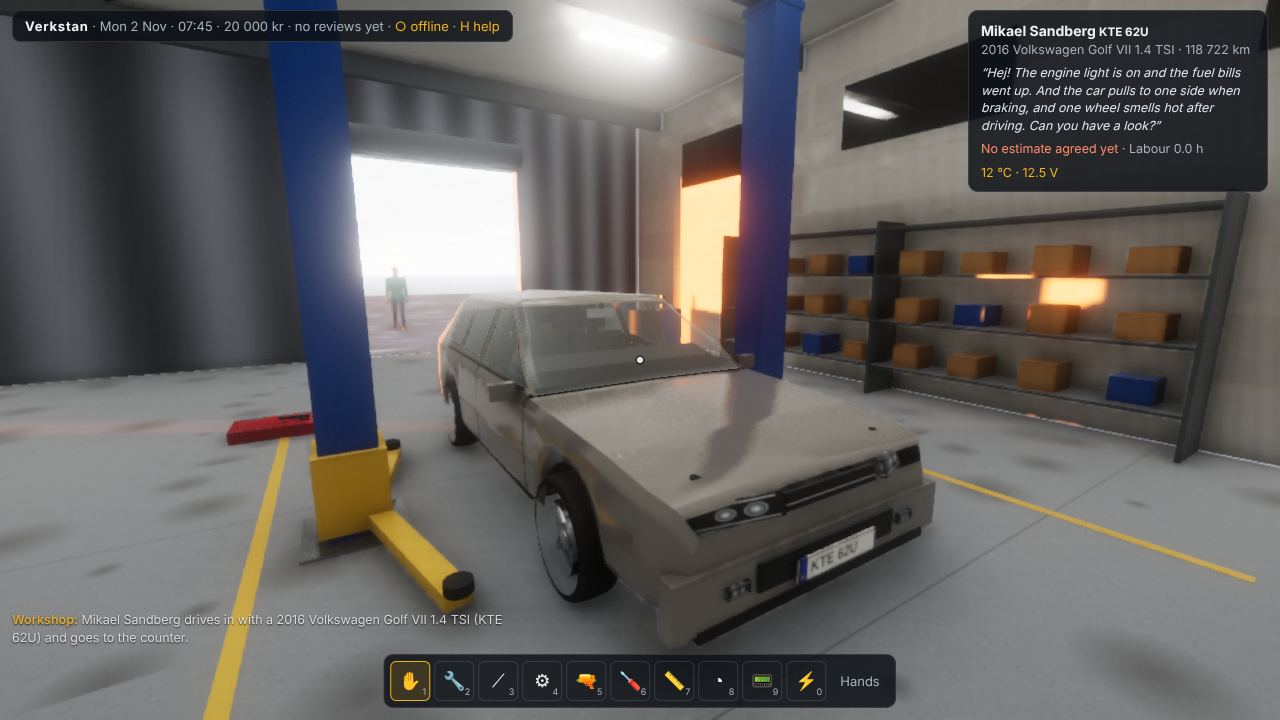
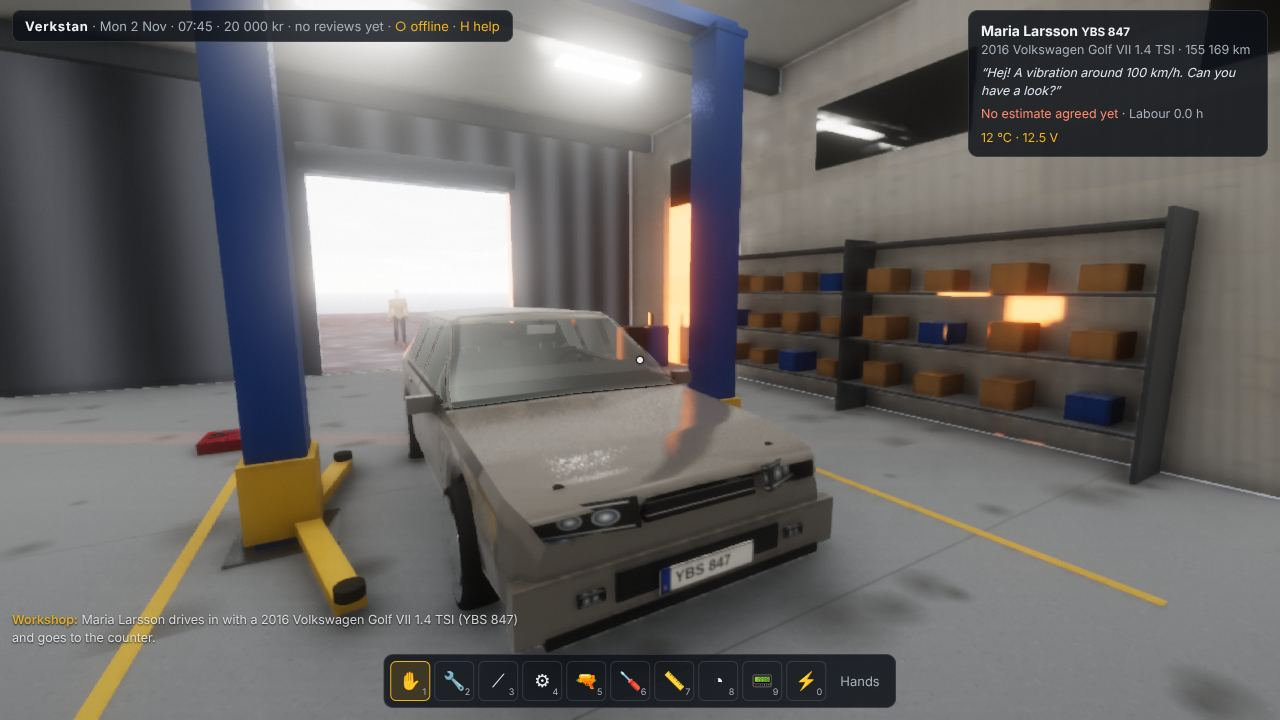
Verkstan: the engine bay after a photo of a 240's; reference photos credited
Body-coloured inner wings, strut towers and bulkhead; the cam cover's ribs, cast intake runners,
plenum, throttle body and the big ribbed intake hose; exhaust runners; heater hoses and the
wiring loom. The HT leads run under the bonnet; the Golf's headlamps wrap into the wings.
docs/references.md lists the Wikimedia Commons photographs each detail was taken from.

Claude-Session: https://claude.ai/code/session_014Z2wUYDbFAVEkqk6v8KxKa

diff --git a/games/verkstad/src/car/assembly.js b/games/verkstad/src/car/assembly.js
@@ -286,6 +286,7 @@ function engineBay(A, lay, volvo) {
   const ax = (a, b) => (lon ? [0, a, b] : [b, a, 0]);     // place along the crank axis
   const dim = (w, h, l) => (lon ? [w, h, l] : [l, h, w]);
   const BB = (w, h, l, p, m) => ({ t: 'box', s: dim(w, h, l), p, m });
+  const EP = (across, up, along) => (lon ? [across, up, along] : [along, up, across]);   // engine-local: across the crank, up, along it
   A.add({ id: 'engine', name: `${e.code} engine (${(Math.PI / 4 * e.bore ** 2 * e.stroke * e.cyl * 1000).toFixed(1)} l)`, kind: 'engine', sys: 'engine', fixed: true, mass: volvo ? 150 : 104,
     pos: [0, EY, EZ], rot: volvo ? [0, 0, -0.2] : [0, 0, 0],
     cond: { oil: e.oil.capacity, oilAge: 12000, oilGrade: e.oil.grade, sludge: 0, comp: [1, 1, 1, 1], blowby: 0, coolant: 1, headGasket: true, timing: true },
@@ -296,7 +297,31 @@ function engineBay(A, lay, volvo) {
       BB(0.28, 0.12, len - 0.06, [0, -0.22, 0], 'alu'),               // sump
       BB(0.24, 0.3, 0.04, ax(0.02, len / 2 + 0.02), 'blackPlastic'),    // timing belt cover
       { t: 'cyl', rad: 0.075, len: 0.03, p: ax(-0.1, len / 2 + 0.05), ax: lon ? 'z' : 'x', m: 'castIron', seg: 28 },   // crank pulley
+      // the cam cover's ribs, the intake manifold's four cast runners to the plenum and throttle body,
+      // the exhaust runners on the other side (after a photo of a 240's engine bay, docs/references.md)
+      ...[-2, -1, 0, 1, 2].map((k) => BB(0.012, 0.018, len - 0.14, [...EP(k * 0.035, 0.355, 0)], volvo ? 'camCoverVolvo' : 'blackPlastic')),
+      ...[0, 1, 2, 3].flatMap((i) => { const q = (i - 1.5) * cylPitch; return [
+        { t: 'tube', pts: [EP(0.11, 0.22, q), EP(0.24, 0.24, q), EP(0.31, 0.12, q * 0.85)], rad: 0.022, m: 'alu' },
+        { t: 'tube', pts: [EP(-0.12, 0.17, q), EP(-0.2, 0.08, q * 0.8), EP(-0.2, -0.08, q * 0.3), EP(-0.18, -0.2, 0)], rad: 0.019, m: 'exhaustHot' },
+      ]; }),
+      BB(0.09, 0.1, len - 0.04, EP(0.33, 0.08, 0), 'alu'),
+      { t: 'cyl', rad: 0.04, len: 0.07, p: EP(0.33, 0.1, len / 2 + 0.01), ax: lon ? 'z' : 'x', m: 'alu', seg: 20 },
+      { t: 'tube', pts: [EP(0.33, 0.1, len / 2 + 0.05), EP(0.36, 0.16, len / 2 + 0.2), EP(0.42, 0.2, len / 2 + 0.36)], rad: 0.042, m: 'rubber' },
+      { t: 'tube', pts: [EP(-0.05, 0.25, -len / 2 - 0.02), EP(0.1, 0.3, -len / 2 - 0.12), EP(0.2, 0.25, -len / 2 - 0.25)], rad: 0.009, m: 'hose' },
+      { t: 'tube', pts: [EP(0.15, 0.33, -len / 2 + 0.05), EP(0.2, 0.36, 0), EP(0.17, 0.33, len / 2 - 0.05)], rad: 0.011, m: 'wire' },
     ] });
+  // the engine bay's own panels, in the body's colour: the inner wings, the strut towers, the bulkhead
+  const hwB = s.dims.width / 2 - 0.13, zb0 = lay.fire + 0.05, zb1 = lay.radZ - 0.08, yTop = lay.hoodY - 0.08;
+  A.add({ id: 'apron', name: 'Inner wings and strut towers', kind: 'apron', sys: 'body', fixed: true, pos: [0, 0, 0], g: [
+    ...[1, -1].flatMap((sx) => [
+      B(0.02, yTop - 0.35, zb1 - zb0, [sx * hwB, (yTop + 0.35) / 2, (zb0 + zb1) / 2], 'paint'),
+      C(0.1, 0.18, [sx * (s.dims.trackF / 2 - 0.2), yTop - 0.1, s.dims.wheelbase / 2 - 0.02], 'y', 'paint', { r2: 0.085, seg: 24 }),
+      ...[0, 1, 2].map((i) => C(0.008, 0.012, [sx * (s.dims.trackF / 2 - 0.2) + Math.cos(i * 2.1) * 0.06, yTop + 0.0, s.dims.wheelbase / 2 - 0.02 + Math.sin(i * 2.1) * 0.06], 'y', 'steel', { seg: 6 })),
+      C(0.025, 0.03, [sx * (s.dims.trackF / 2 - 0.2), yTop + 0.005, s.dims.wheelbase / 2 - 0.02], 'y', 'rubber'),
+    ]),
+    B(s.dims.width - 0.3, yTop - 0.35, 0.02, [0, (yTop + 0.35) / 2, zb0 - 0.03], 'paint'),
+    B(s.dims.width - 0.3, 0.06, 0.12, [0, yTop - 0.02, zb0 - 0.02], 'blackPlastic'),          // the scuttle panel under the wipers
+  ] });
   // the oil: filler cap, dipstick, drain plug, filter
   A.add({ id: 'oilcap', name: 'Oil filler cap', kind: 'oilcap', sys: 'oil', mass: 0.05, price: 120, clip: true, need: ['hood'], pos: [0.03, EY + 0.36, EZ + (lon ? 0.12 : 0)], g: [C(0.03, 0.025, [0, 0, 0], 'y', volvo ? 'blackPlastic' : 'yellowCap', { seg: 20 })] });
   A.add({ id: 'dipstick', name: 'Oil dipstick', kind: 'dipstick', sys: 'oil', mass: 0.05, price: 140, clip: true, need: ['hood'], pos: lon ? [0.17, EY + 0.25, EZ - 0.05] : [-0.05, EY + 0.25, EZ + 0.17], info: 'Wipe, push it fully home, pull it out and read where the oil reaches between MIN and MAX', g: [T([[0, 0, 0], [0, -0.45, 0]], 0.003, 'steel'), TOR(0.018, 0.004, [0, 0.02, 0], 'z', 'yellowCap')] });
@@ -314,8 +339,8 @@ function engineBay(A, lay, volvo) {
       blockers: [volvo ? 'lead' + i : 'coil' + i],
       fasteners: [{ id: 'thread', name: 'spark plug', size: e.plug.socket, torque: e.plug.torque, len: 6, stiffness: 1.2, pos: [0, 0, 0], axis: [0, 1, 0] }],
       cond: { gap: e.plug.gap, wear: 0.2, fouled: false, cracked: false, spec: e.plug.gap }, g: [C(0.008, 0.06, [0, 0.02, 0], 'y', 'ceramic'), C(0.01, 0.015, [0, -0.012, 0], 'y', 'steel', { seg: 6 })] });
-    if (volvo) A.add({ id: 'lead' + i, name: `HT lead, cylinder ${i}`, kind: 'lead', sys: 'ignition', cyl: i, mass: 0.05, price: 95, clip: true, need: ['hood'], pos: [plugPos[0], plugPos[1] + 0.03, plugPos[2]],
-      cond: { ok: true, resistance: 5.5 }, g: [T([[0, 0, 0], [0.08, 0.05, 0], [0.18, 0.06, (0.2 - p) * 0.6], [0.24, 0.08, 0.22 - p]], 0.0045, 'leadRed')] });
+    if (volvo) A.add({ id: 'lead' + i, name: `HT lead, cylinder ${i}`, kind: 'lead', sys: 'ignition', cyl: i, mass: 0.05, price: 95, clip: true, need: ['hood'], pos: [plugPos[0], plugPos[1] + 0.01, plugPos[2]],
+      cond: { ok: true, resistance: 5.5 }, g: [T([[0, 0, 0], [0.08, 0.02, 0], [0.18, 0.015, (0.2 - p) * 0.6], [0.24, 0.0, 0.22 - p]], 0.0045, 'leadRed')] });
     else A.add({ id: 'coil' + i, name: `Ignition coil, cylinder ${i}`, kind: 'coil', sys: 'ignition', cyl: i, mass: 0.25, price: 590, partNo: '04E 905 110', clip: true, need: ['hood'], pos: [plugPos[0], plugPos[1] + 0.04, plugPos[2]],
       cond: { ok: true }, g: [C(0.012, 0.1, [0, -0.02, 0], 'y', 'blackPlastic'), B(0.04, 0.04, 0.05, [0, 0.04, 0], 'blackPlastic')] });
   }

diff --git a/games/verkstad/src/car/details.js b/games/verkstad/src/car/details.js
@@ -40,7 +40,7 @@ export function bodyDetails(spec, B) {
   } else {
     for (const sx of [1, -1]) {
       // wedge headlamps on the nose's slope, swept back and tilted up
-      out.push(box(0.4, 0.1, 0.03, [sx * 0.52, 0.715, F - 0.04], 'lensGolf', [-0.3, sx * 0.38, sx > 0 ? 0 : Math.PI]));
+      out.push(box(0.46, 0.125, 0.03, [sx * 0.55, 0.72, F - 0.06], 'lensGolf', [-0.3, sx * 0.5, sx > 0 ? 0 : Math.PI]));
       out.push(box(0.12, 0.05, 0.02, [sx * 0.56, 0.43, F + 0.03], 'lensGolf'));                      // fog lamp
       out.push(box(0.36, 0.11, 0.03, [sx * 0.6, 0.98, R + 0.03], 'tailGolf', [0.35, sx * -0.25, 0]));      // rear lamp
       out.push(box(0.02, 0.02, P.cowl - P.roofR - 0.2, [sx * (st(-0.6)[3] - 0.03), st(-0.6)[2] + 0.005, (P.cowl + P.roofR) / 2], 'trimBlack'));

diff --git a/games/verkstad/docs/references.md b/games/verkstad/docs/references.md
@@ -58,6 +58,14 @@ these cars.
 
 ## Reference pictures
 
-No photographs or drawings are bundled with the game. The bodies are lofted from the published
-dimensions and from the shapes as they are commonly known: the Volvo's boxy saloon, the Golf's
-hatch with its C-pillar, the 2026 F1 car's halo, narrower wings and smaller wheels.
+The bodies are lofted from the published dimensions; their details (lamps, grilles, bumpers, trim,
+wheels, the engine bay, the cabin) were traced from these photographs on Wikimedia Commons. The
+photos are not bundled with the game.
+
+| What was taken from it | Photograph |
+| --- | --- |
+| Volvo 240: headlamps with the amber indicators, grille and diagonal bar, bumpers, rubbing strip, window frames, alloys | [1986 Volvo 244 GL in Bucharest](https://commons.wikimedia.org/wiki/File:1986_Volvo_244_GL_in_Bucharest.jpg) |
+| Volvo 240: the dashboard (binnacle, wood strip, vents, console, four-spoke wheel), pleated leather seats | [1993 Volvo 240 Classic dashboard (US)](https://commons.wikimedia.org/wiki/File:1993_Volvo_240_Classic_dashboard_(US).jpg) |
+| Volvo 240: the engine bay (body-coloured inner wings and strut towers, cam cover, intake runners, intake hose) | [B234F engine bay](https://commons.wikimedia.org/wiki/File:B234F.jpg) (a 16-valve redblock in a 240's bay) |
+| Golf VII: headlamps, grille band, lower intake, fog lamps, mirrors, double five-spoke wheels | [2013–2015 Volkswagen Golf (5G) 110TDI Highline, front](https://commons.wikimedia.org/wiki/File:2013-2015_Volkswagen_Golf_(5G)_110TDI_Highline_(R-Line)_5-door_hatchback_(2018-10-29)_01.jpg) and [rear](https://commons.wikimedia.org/wiki/File:2013-2015_Volkswagen_Golf_(5G)_110TDI_Highline_(R-Line)_5-door_hatchback_(2018-10-29)_02.jpg) |
+| The 2026 F1 car's proportions: nose, halo, sidepods, engine cover, rear wing, the medium tyres' yellow sidewall band | [FIA F1 Austria 2026, Nr. 12 Antonelli](https://commons.wikimedia.org/wiki/File:FIA_F1_Austria_2026_Nr._12_Antonelli_(1).jpg) |
